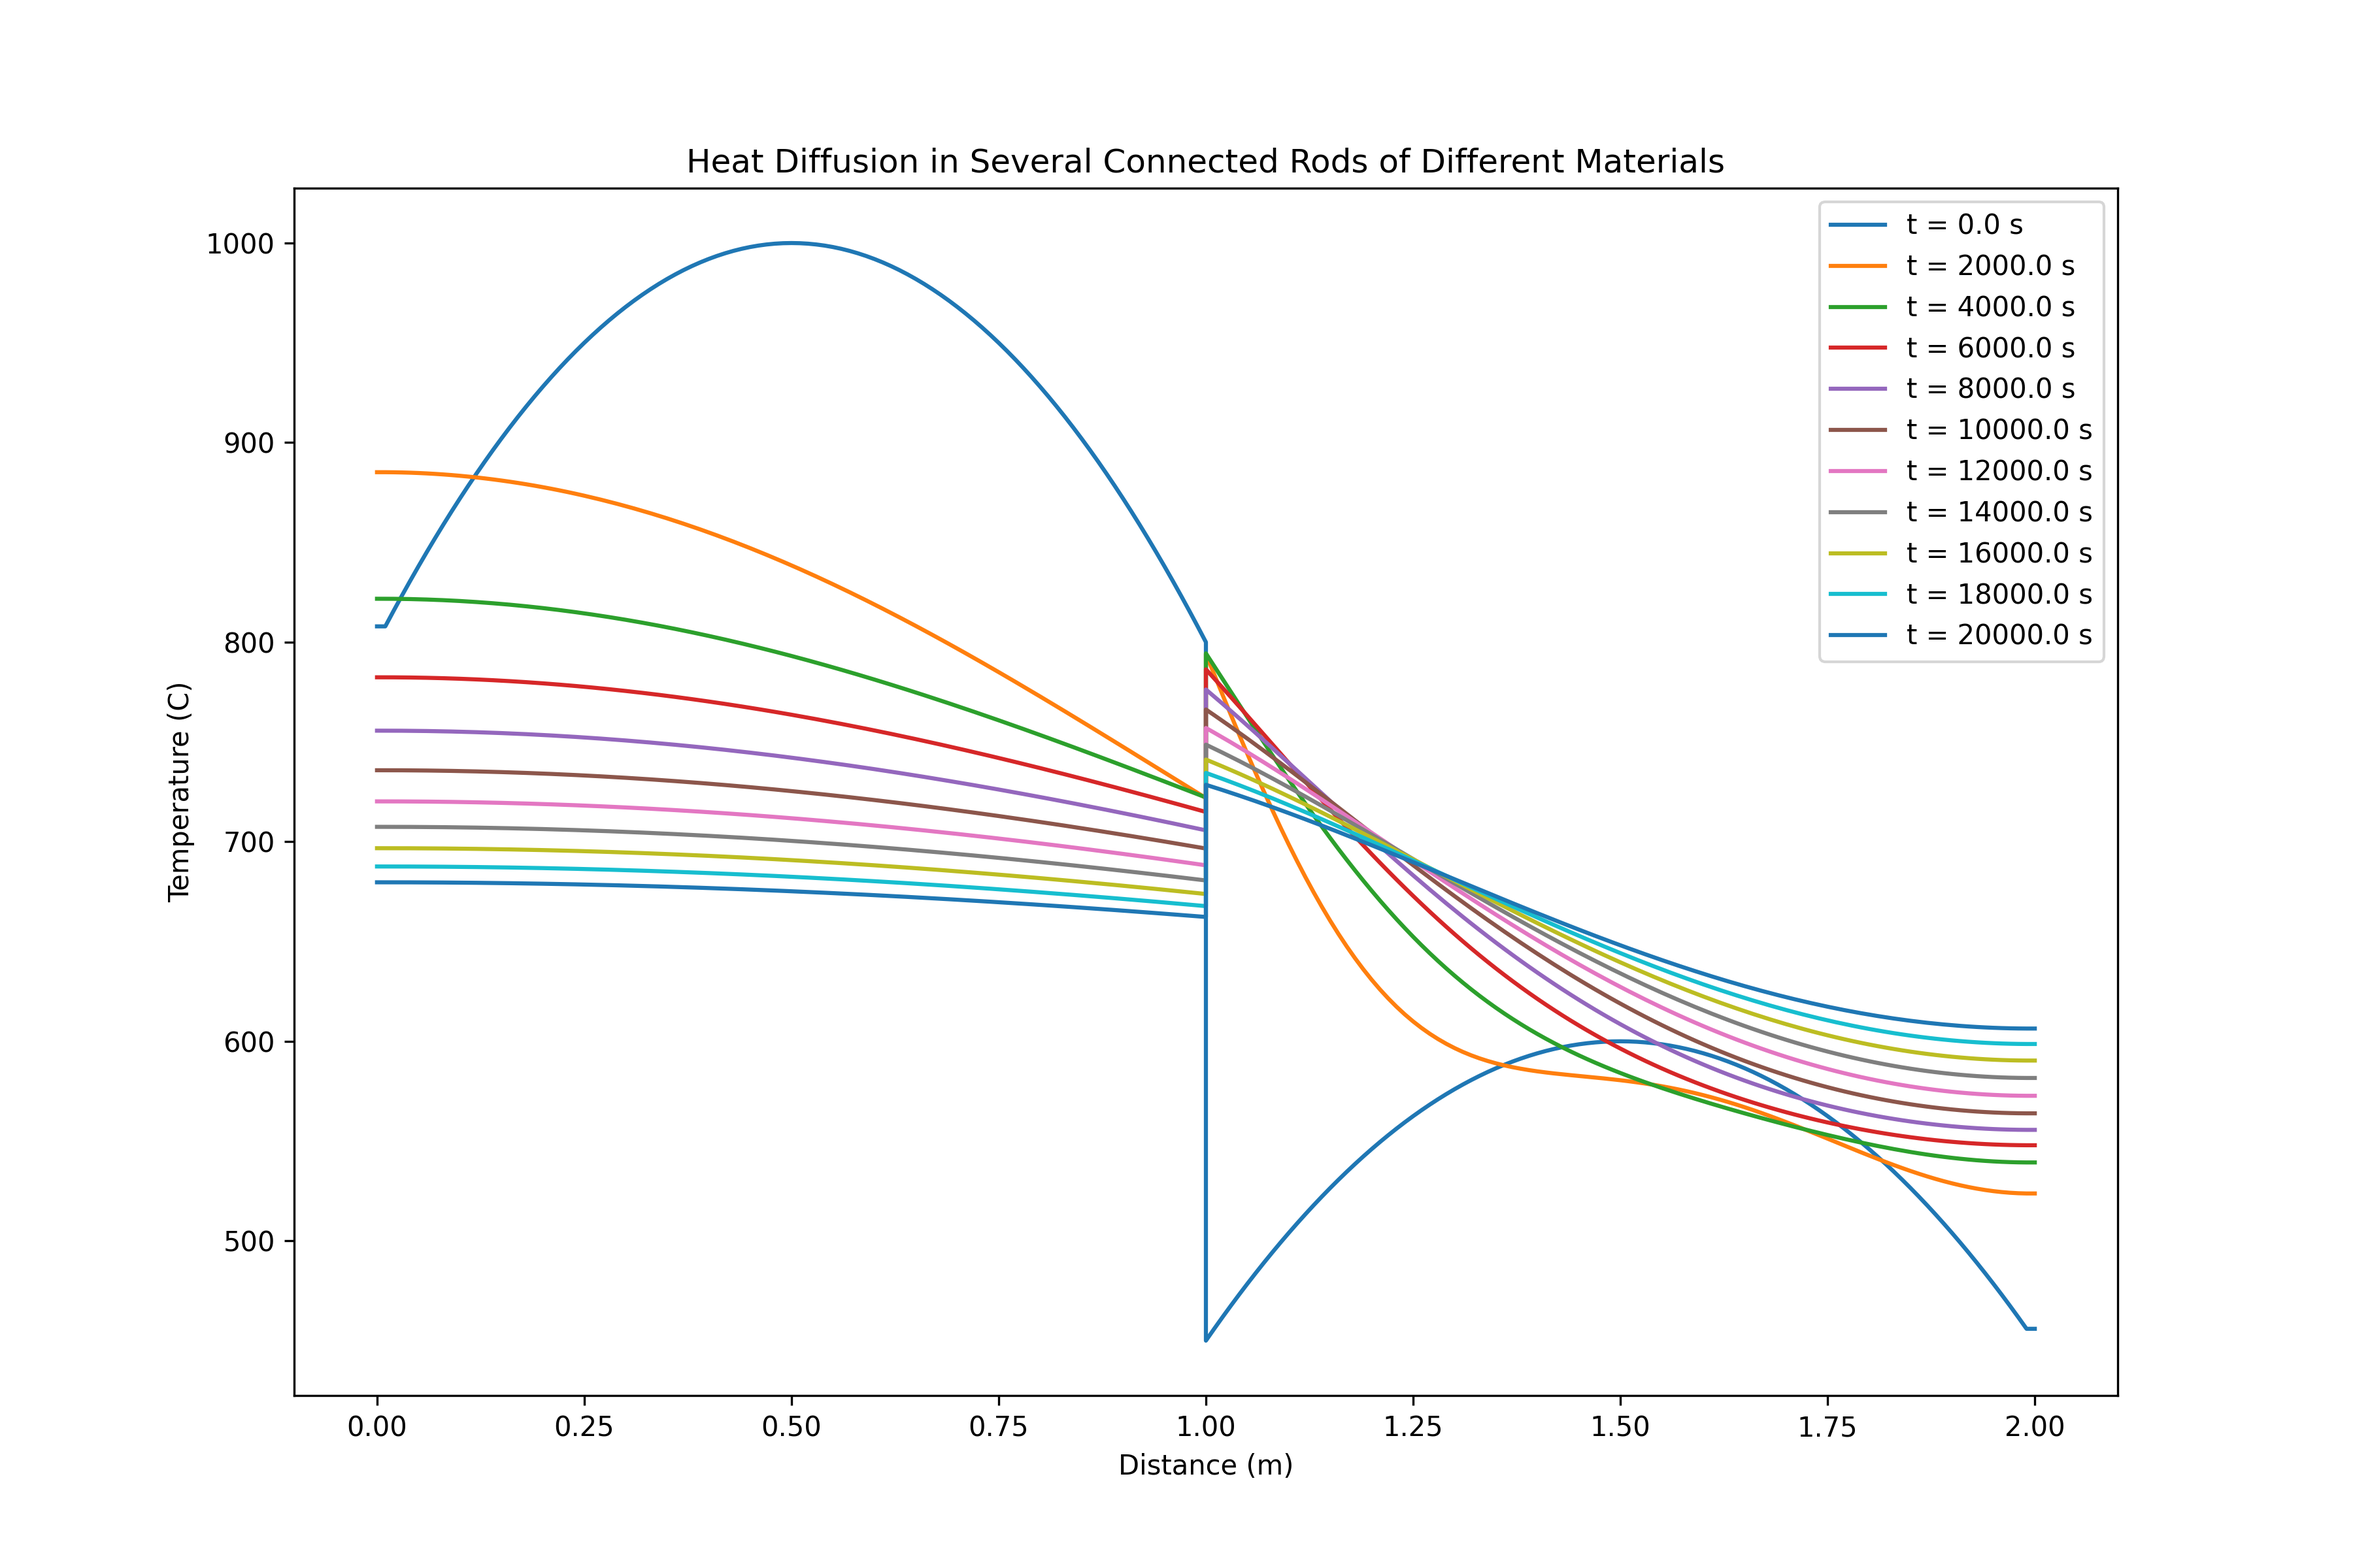
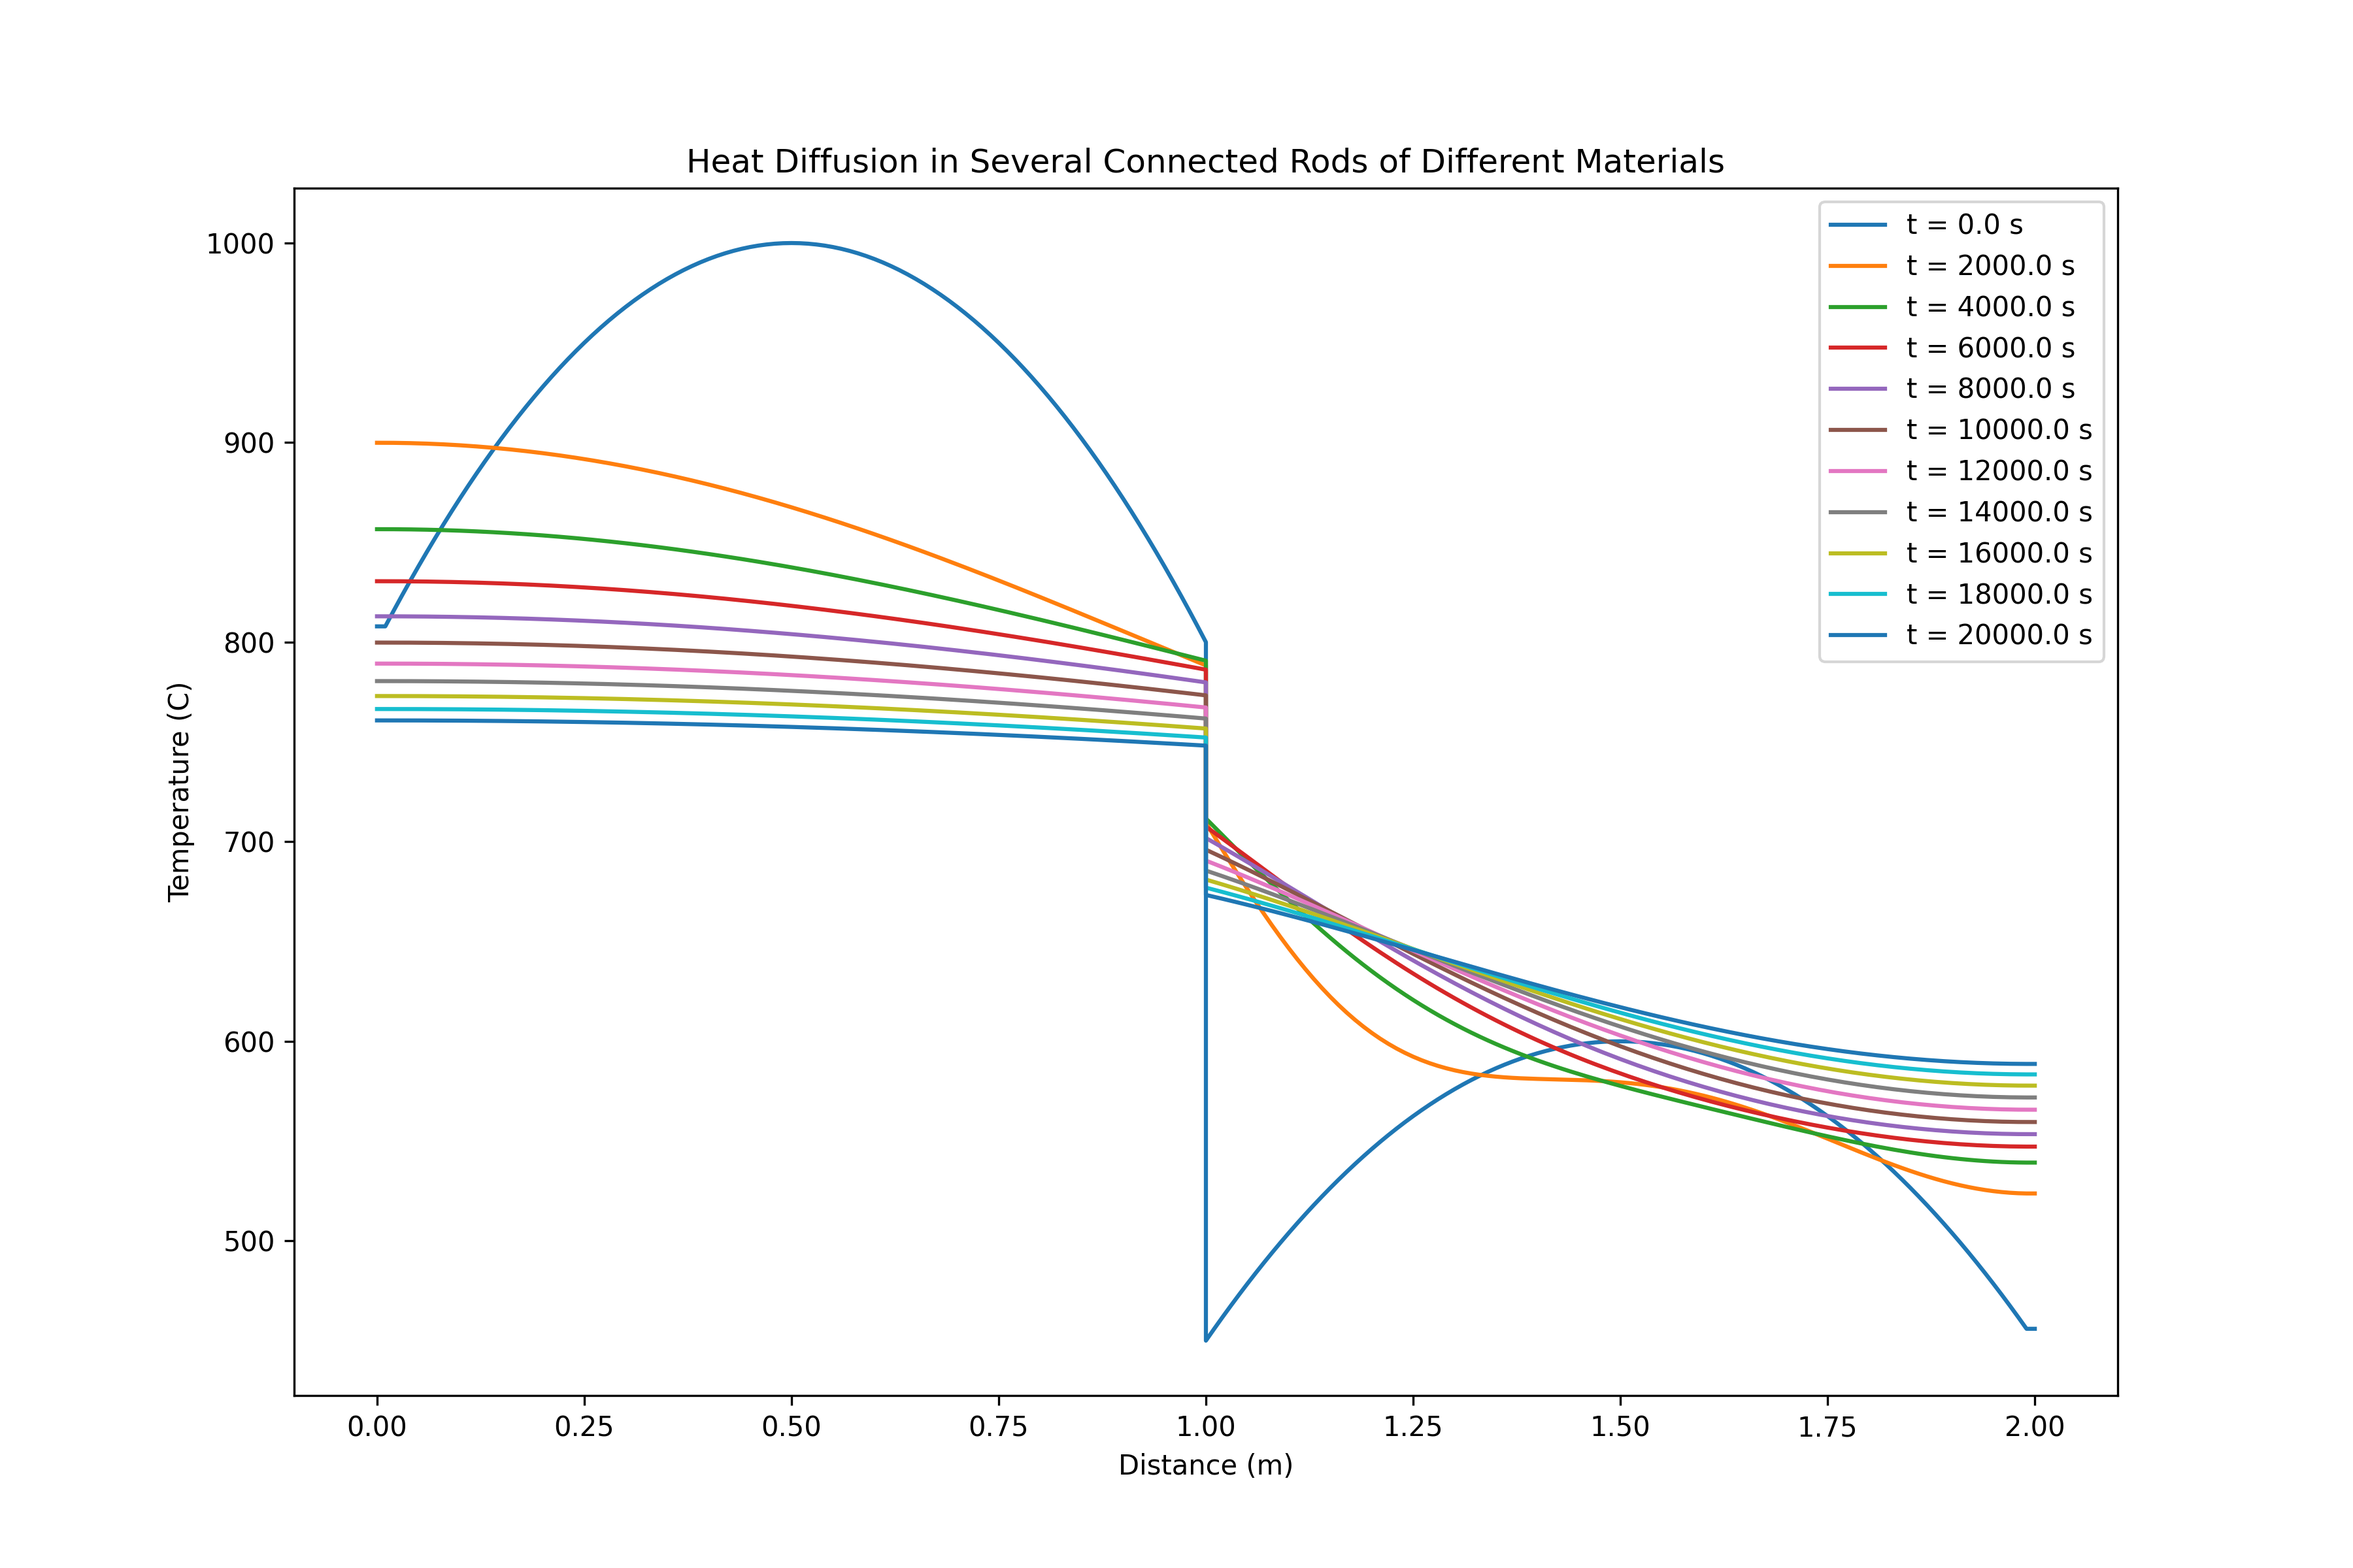
Added variable gamma values

Changed region(s): [[0.1556, 0.2812, 0.8711, 0.75]]

diff --git a/Heat_diffusion_in_metal_rods/Two_connected_rods_modified_boundary_conditions.py b/Heat_diffusion_in_metal_rods/Two_connected_rods_modified_boundary_conditions.py
@@ -26,7 +26,7 @@ def my_code():
     k_rod1 = 398.0
     k_rod2 = 100.0
 
-    gamma = 1.1
+    gamma = 0.9
 
     # Discretization
     Nx_rod1 = int(L_rod1 / dx) + 1
@@ -73,26 +73,30 @@ def my_code():
 
 T_total, x_values_total, duration, Nt = my_code()
 
-# # Create a 3D surface plot for the total temperature
-# X_total, T_values_total = np.meshgrid(x_values_total, np.linspace(0, duration, Nt))
-# fig = plt.figure(figsize=(12, 8))
-# ax = fig.add_subplot(111, projection='3d')
-# ax.plot_surface(X_total, T_values_total, T_total, cmap='viridis')
-# ax.set_xlabel('Distance (m)')
-# ax.set_ylabel('Time (s)')
-# ax.set_zlabel('Temperature (C)')
-# ax.set_title('Heat Diffusion in Several Connected Rods of Different Materials')
-# plt.savefig('Heat_diffusion_in_metal_rods/Plots/HeatDiff_two_connected_rods_mBC_3D.png', dpi=300)
+def plot_3D():
+    # Create a 3D surface plot for the total temperature
+    X_total, T_values_total = np.meshgrid(x_values_total, np.linspace(0, duration, Nt))
+    fig = plt.figure(figsize=(12, 8))
+    ax = fig.add_subplot(111, projection='3d')
+    ax.plot_surface(X_total, T_values_total, T_total, cmap='viridis')
+    ax.set_xlabel('Distance (m)')
+    ax.set_ylabel('Time (s)')
+    ax.set_zlabel('Temperature (C)')
+    ax.set_title('Heat Diffusion in Several Connected Rods of Different Materials')
 
-# Create a 2D plot for Temperature vs Length for every (Nt/10)th time step
-plt.figure(figsize=(12, 8))
-for i in range(0, Nt, int(Nt/10)):
-    plt.plot(x_values_total, T_total[i, :], label='t = ' + str(i*duration/(Nt-1)) + ' s')
-plt.xlabel('Distance (m)')
-plt.ylabel('Temperature (C)')
-plt.title('Heat Diffusion in Several Connected Rods of Different Materials')
-plt.legend()
-plt.savefig('Heat_diffusion_in_metal_rods/Plots/HeatDiff_two_connected_rods_mBC.png', dpi=300)
+    plt.savefig('Heat_diffusion_in_metal_rods/Plots/HeatDiff_two_connected_rods_mBC_3D.png', dpi=300)
 
+def plot_2D():
+    # Create a 2D plot for Temperature vs Length for every (Nt/10)th time step
+    plt.figure(figsize=(12, 8))
+    for i in range(0, Nt, int(Nt/10)):
+        plt.plot(x_values_total, T_total[i, :], label='t = ' + str(i*duration/(Nt-1)) + ' s')
+    plt.xlabel('Distance (m)')
+    plt.ylabel('Temperature (C)')
+    plt.title('Heat Diffusion in Several Connected Rods of Different Materials')
+    plt.legend()
+    plt.savefig('Heat_diffusion_in_metal_rods/Plots/HeatDiff_two_connected_rods_mBC.png', dpi=300)
+
+plot_2D()
 plt.show()
 
